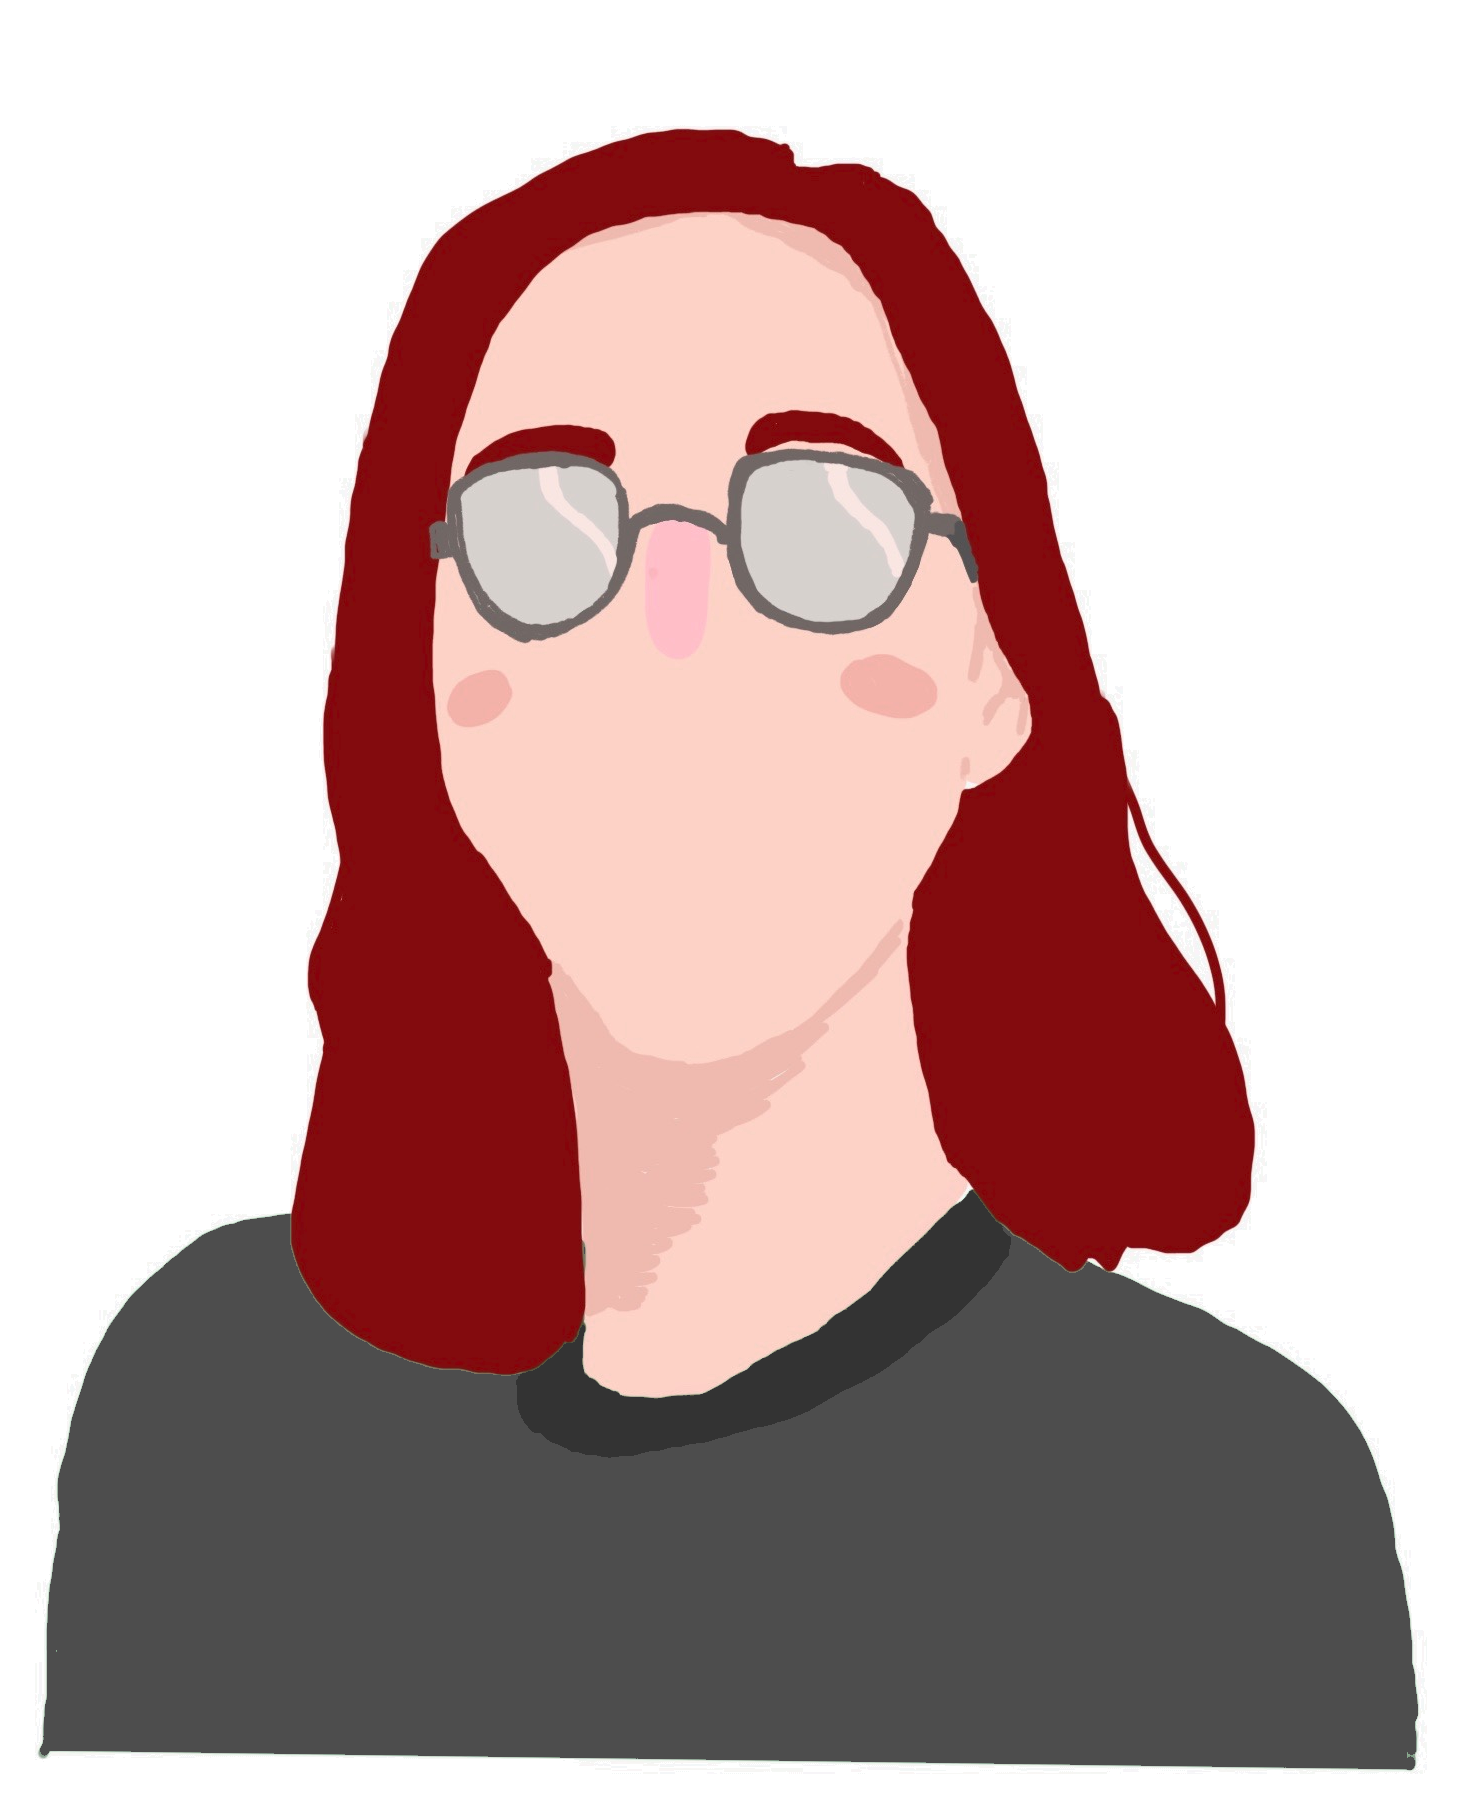
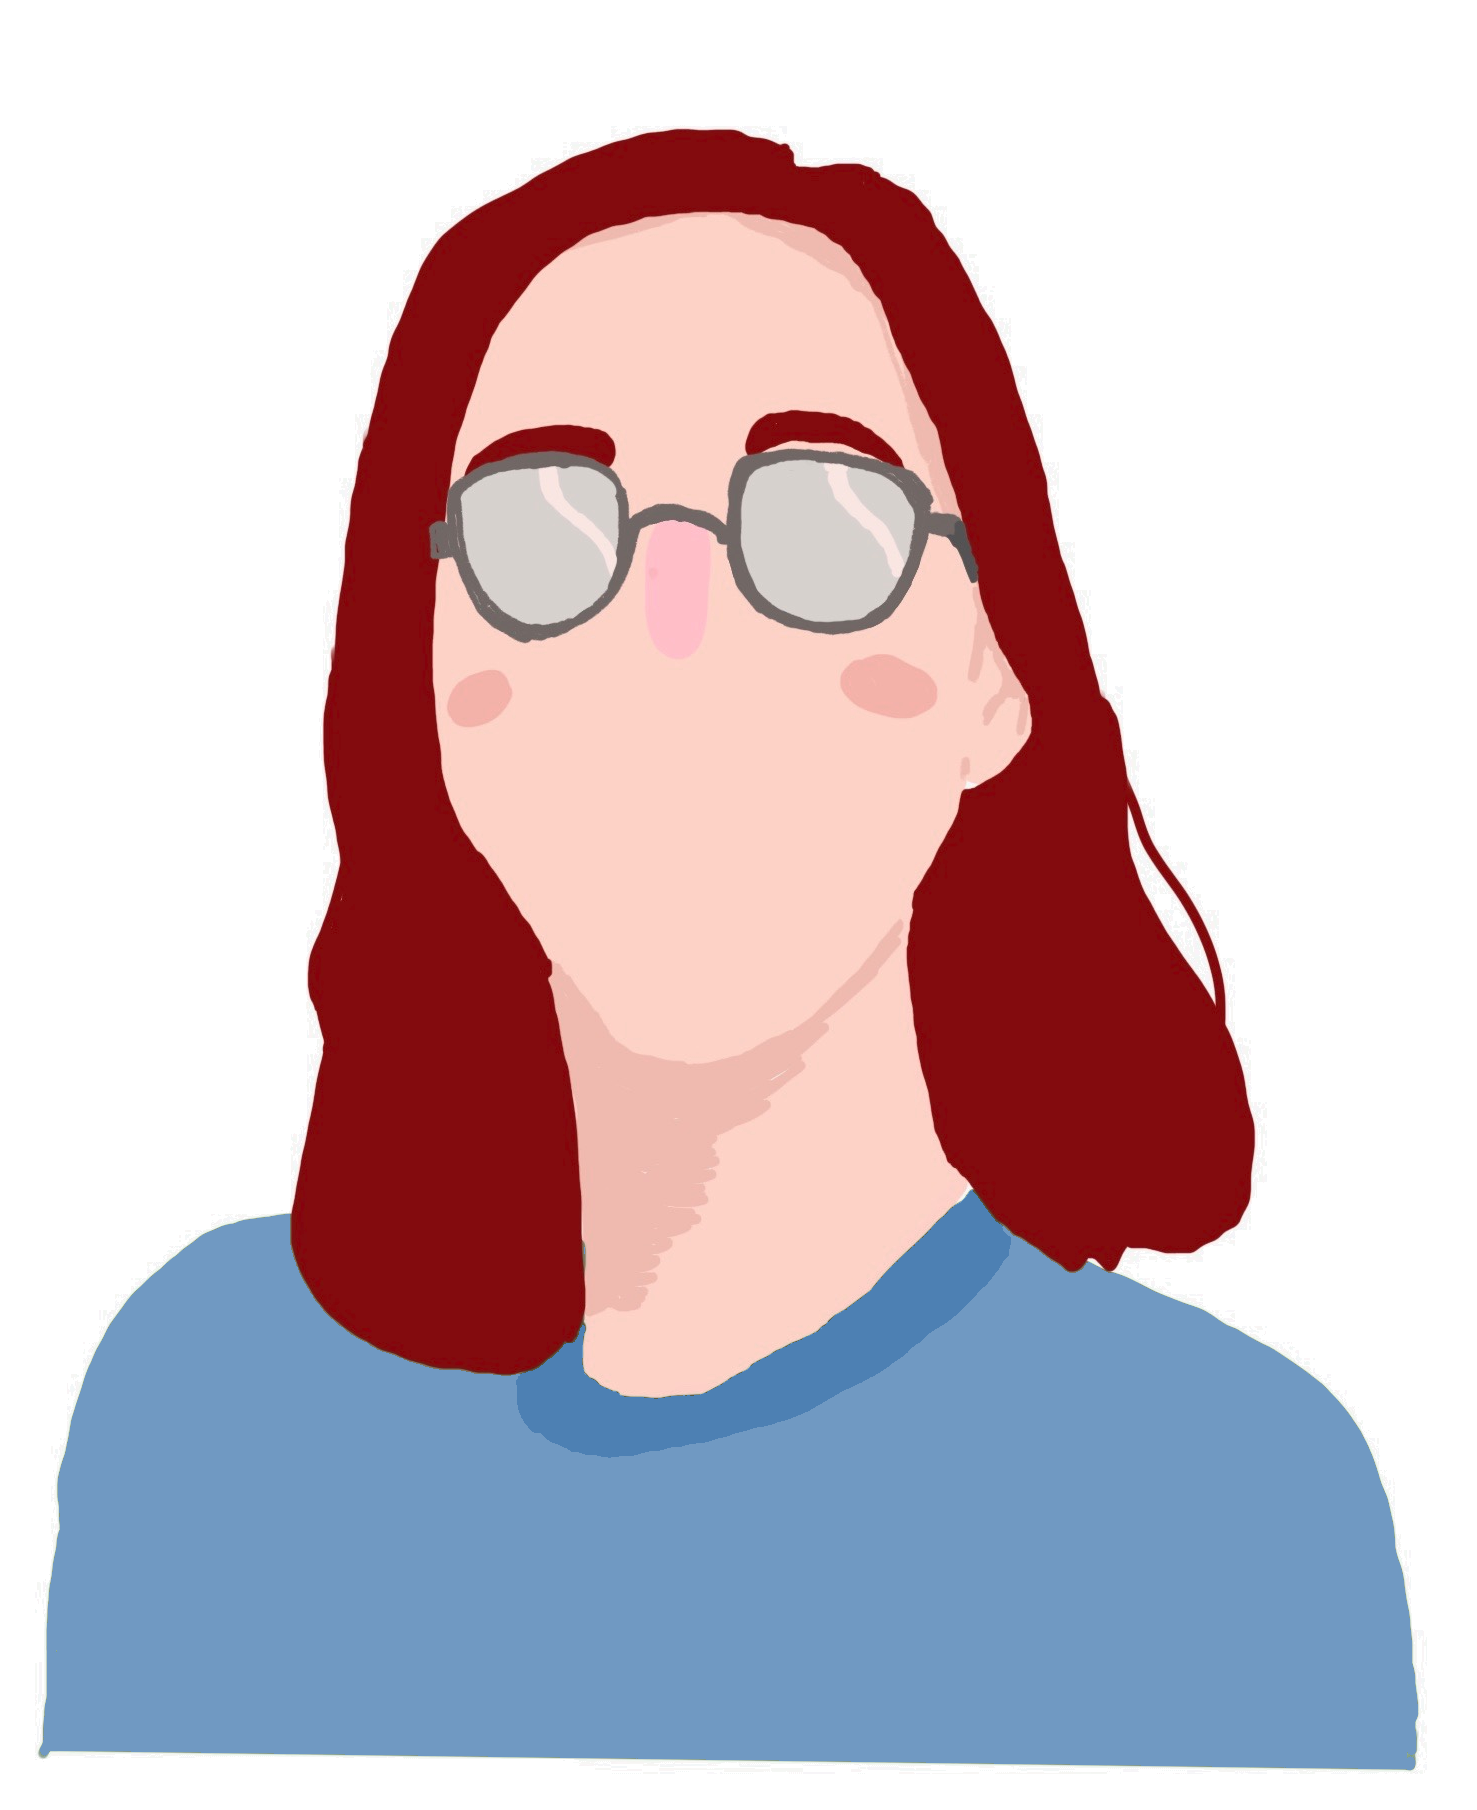
alt color scheme testing

Changed region(s): [[0.0311, 0.6497, 0.9655, 0.9901]]

diff --git a/index.html b/index.html
@@ -38,14 +38,14 @@
       <section class="overlay">
         <div id="home-container">
           <div id="sketch-container">
-            <img id="sketch" src="images/sketch.png">
+            <img id="sketch" src="images/sketch3.png">
             <div id="sketch-copyright">
               &copy; <a target="_blank" href="https://ndsun.net/">Andy Sun</a>
             </div>
           </div>
           <div id="home-text" class="space-between">
             <div id="speech-bubble">Hey there! I'm Olivia.</div>
-            <div>I graduated from <a target="_blank" href="https://www.brown.edu/">Brown University</a> in Spring 2020 with a double major in computer science and music, and I'll be starting at <a target="_blank" href="https://www.netspi.com/">NetSPI</a> as an Associate Security Consultant in January 2021.</div>
+            <div>I graduated from <a target="_blank" href="https://www.brown.edu/" class="home-link">Brown University</a> in Spring 2020 with a double major in computer science and music, and I'll be starting at <a target="_blank" href="https://www.netspi.com/" class="home-link">NetSPI</a> as an Associate Security Consultant in January 2021.</div>
             <div>
                 <a target="_blank" href="mailto:olivia.s.langley@gmail.com" class="icon home-icon">
                   <i class="fas fa-envelope" style="margin-left: 1px;"></i>
@@ -75,7 +75,7 @@
           <p>Outside of computer science, I’m a big fan of live looping, classic rock, and cheering on my <a target="_blank" href="http://thehigherkeys.com/">college a cappella group</a> from afar. I also consider myself a semi-professional <a target="_blank" href="https://www.stardewvalley.net/">Stardew Valley</a> player, and like to spend my free time attempting to break the game by min/max-ing as much as humanly possible. &#127922;</p>
         </div>
       </section>
-      <section class="overlay">
+      <section id="education">
         <div id="education-container">
           <h1 class="header center-header"><span>Education</span></h1>
           <div id="brown-container">
@@ -123,7 +123,7 @@
       <section id="experience">
         <div id="experience-container">
           <h1 class="header"><span>Experience</span></h1>
-          <div class="experience-box" style="border-color: #afbacf;">
+          <div class="experience-box" style="border-color: #82a6c9;">
             <div class="space-between">
               <div class="bold-header">Associate Security Consultant @ <a target="_blank" href="https://www.netspi.com/">NetSPI</a></div>
               <div>Spring 2021</div>
@@ -135,7 +135,7 @@
               <li>Coming soon!!</li>
             </ul>
           </div>
-          <div class="experience-box" style="border-color: #8f9ebc;">
+          <div class="experience-box" style="border-color: #5e8cba;">
             <div class="space-between">
               <div class="bold-header">Head Teaching Assistant @ <a target="_blank" href="https://cs.brown.edu/">Brown CS</a></div>
               <div>Spring 2020</div>
@@ -150,7 +150,7 @@
               <li>Held weekly 1 on 1 TA hours to help students with conceptual and debugging questions</li>
             </ul>
           </div>
-          <div class="experience-box" style="border-color: #7083a9;">
+          <div class="experience-box" style="border-color: #4573a1;">
             <div class="space-between">
               <div class="bold-header">Information Security Intern @ <a target="_blank" href="https://www.qorvo.com/">Qorvo</a></div>
               <div>Summer 2019</div>
@@ -164,7 +164,7 @@
               <li>Developed several Python scripts to assist with the team's day-to-day operations
             </ul>
           </div>
-          <div class="experience-box" style="border-color: #56698f;">
+          <div class="experience-box" style="border-color: #2e4d6b;">
             <div class="space-between">
               <div class="bold-header">Software Engineering Intern @ <a target="_blank" href="https://www.qorvo.com/">Qorvo</a></div>
               <div>Summer 2017, Summer 2018</div>

diff --git a/css/styles.css b/css/styles.css
@@ -10,8 +10,8 @@ body {
   font-family: "Assistant", Helvetica, sans-serif;
   font-size: 12pt;
   font-weight: 400;
-  color: #e6e6e6;
-  background-color: #0f1113;
+  color: black;
+  background-color: #f2f2f2;
 }
 
 section {
@@ -32,7 +32,7 @@ section {
 
 a, a:hover, a:visited, a:focus {
   font-weight: 700;
-  color: #b31919;
+  color: #990000;
 }
 
 h1 {
@@ -59,6 +59,7 @@ ul {
 }
 
 #home-container {
+  color: #e6e6e6;
   width: 650px;
   padding: 0 40px 0 35px;
   display: flex;
@@ -77,6 +78,10 @@ ul {
   margin-top: 8px;
 }
 
+.home-link, .home-link:hover, .home-link:visited, .home-link:focus {
+  color: #b31919;
+}
+
 .space-between {
   position: relative;
   display: flex;
@@ -89,7 +94,7 @@ ul {
   font-style: italic;
   font-weight: 300;
   font-size: 22pt;
-  background: #60759f;
+  background: #4d80b3;
   border-radius: 15px;
   width: 280px;
   padding: 5px 10px 5px 15px;
@@ -105,7 +110,7 @@ ul {
   width: 0;
   height: 0;
   border: 20px solid transparent;
-  border-right-color: #60759f;
+  border-right-color: #4d80b3;
   border-left: 0;
   border-bottom: 0;
   margin: -11px 0 0 -19px;
@@ -195,6 +200,7 @@ ul {
 
 #about-container {
   width: 800px;
+  color: black;
 }
 
 .header {
@@ -211,7 +217,7 @@ ul {
   content: '';
   position: absolute;
   top: 49%;
-  border-bottom: 1px solid #e6e6e6;
+  border-bottom: 1px solid black;
   width: 2000%;
   margin: 0 10px;
 }
@@ -231,11 +237,20 @@ ul {
   margin: 0 10px 30px 40px;
 }
 
+#education {
+  background: linear-gradient(
+    rgba(51, 51, 51, 0.75), 
+    rgba(51, 51, 51, 0.75)
+  ), no-repeat center fixed url(../images/texture2.jpg);
+  background-size: cover;
+  -o-background-size: cover;
+  -moz-background-size: cover;
+  -webkit-background-size: cover;
+}
+
 #education-container {
   width: 800px;
-  background-color: rgba(73, 88, 105, 0.15);  
-  backdrop-filter: saturate(200%) blur(5px);
-  webkit-backdrop-filter: saturate(200%) blur(5px);
+  background-color: #f2f2f2;
   padding: 10px 40px 30px 40px;
 }
 
@@ -258,8 +273,8 @@ ul {
 a.skill-box, .skill-box:visited, .skill-box:active, .skill-box:focus {
   font-size: 11pt;
   color: white;
-  background-color: #9c1616;
-  padding: 1px 5px;
+  background-color: #4d80b3;
+  padding: 2px 5px;
   margin-right: 5.8px;
   margin-top: 5px;
   font-weight: normal;
@@ -267,7 +282,7 @@ a.skill-box, .skill-box:visited, .skill-box:active, .skill-box:focus {
 }
 
 a.skill-box:hover {
-  background-color: #701010;
+  background-color: #36597d;
   text-decoration: none;
   font-weight: normal;
 }
@@ -294,6 +309,7 @@ a.skill-box:hover {
 
 .footer {
   padding: 15px 20px 15px 20px;
+  color: #e6e6e6;
 }
 
 .footer-icon {
